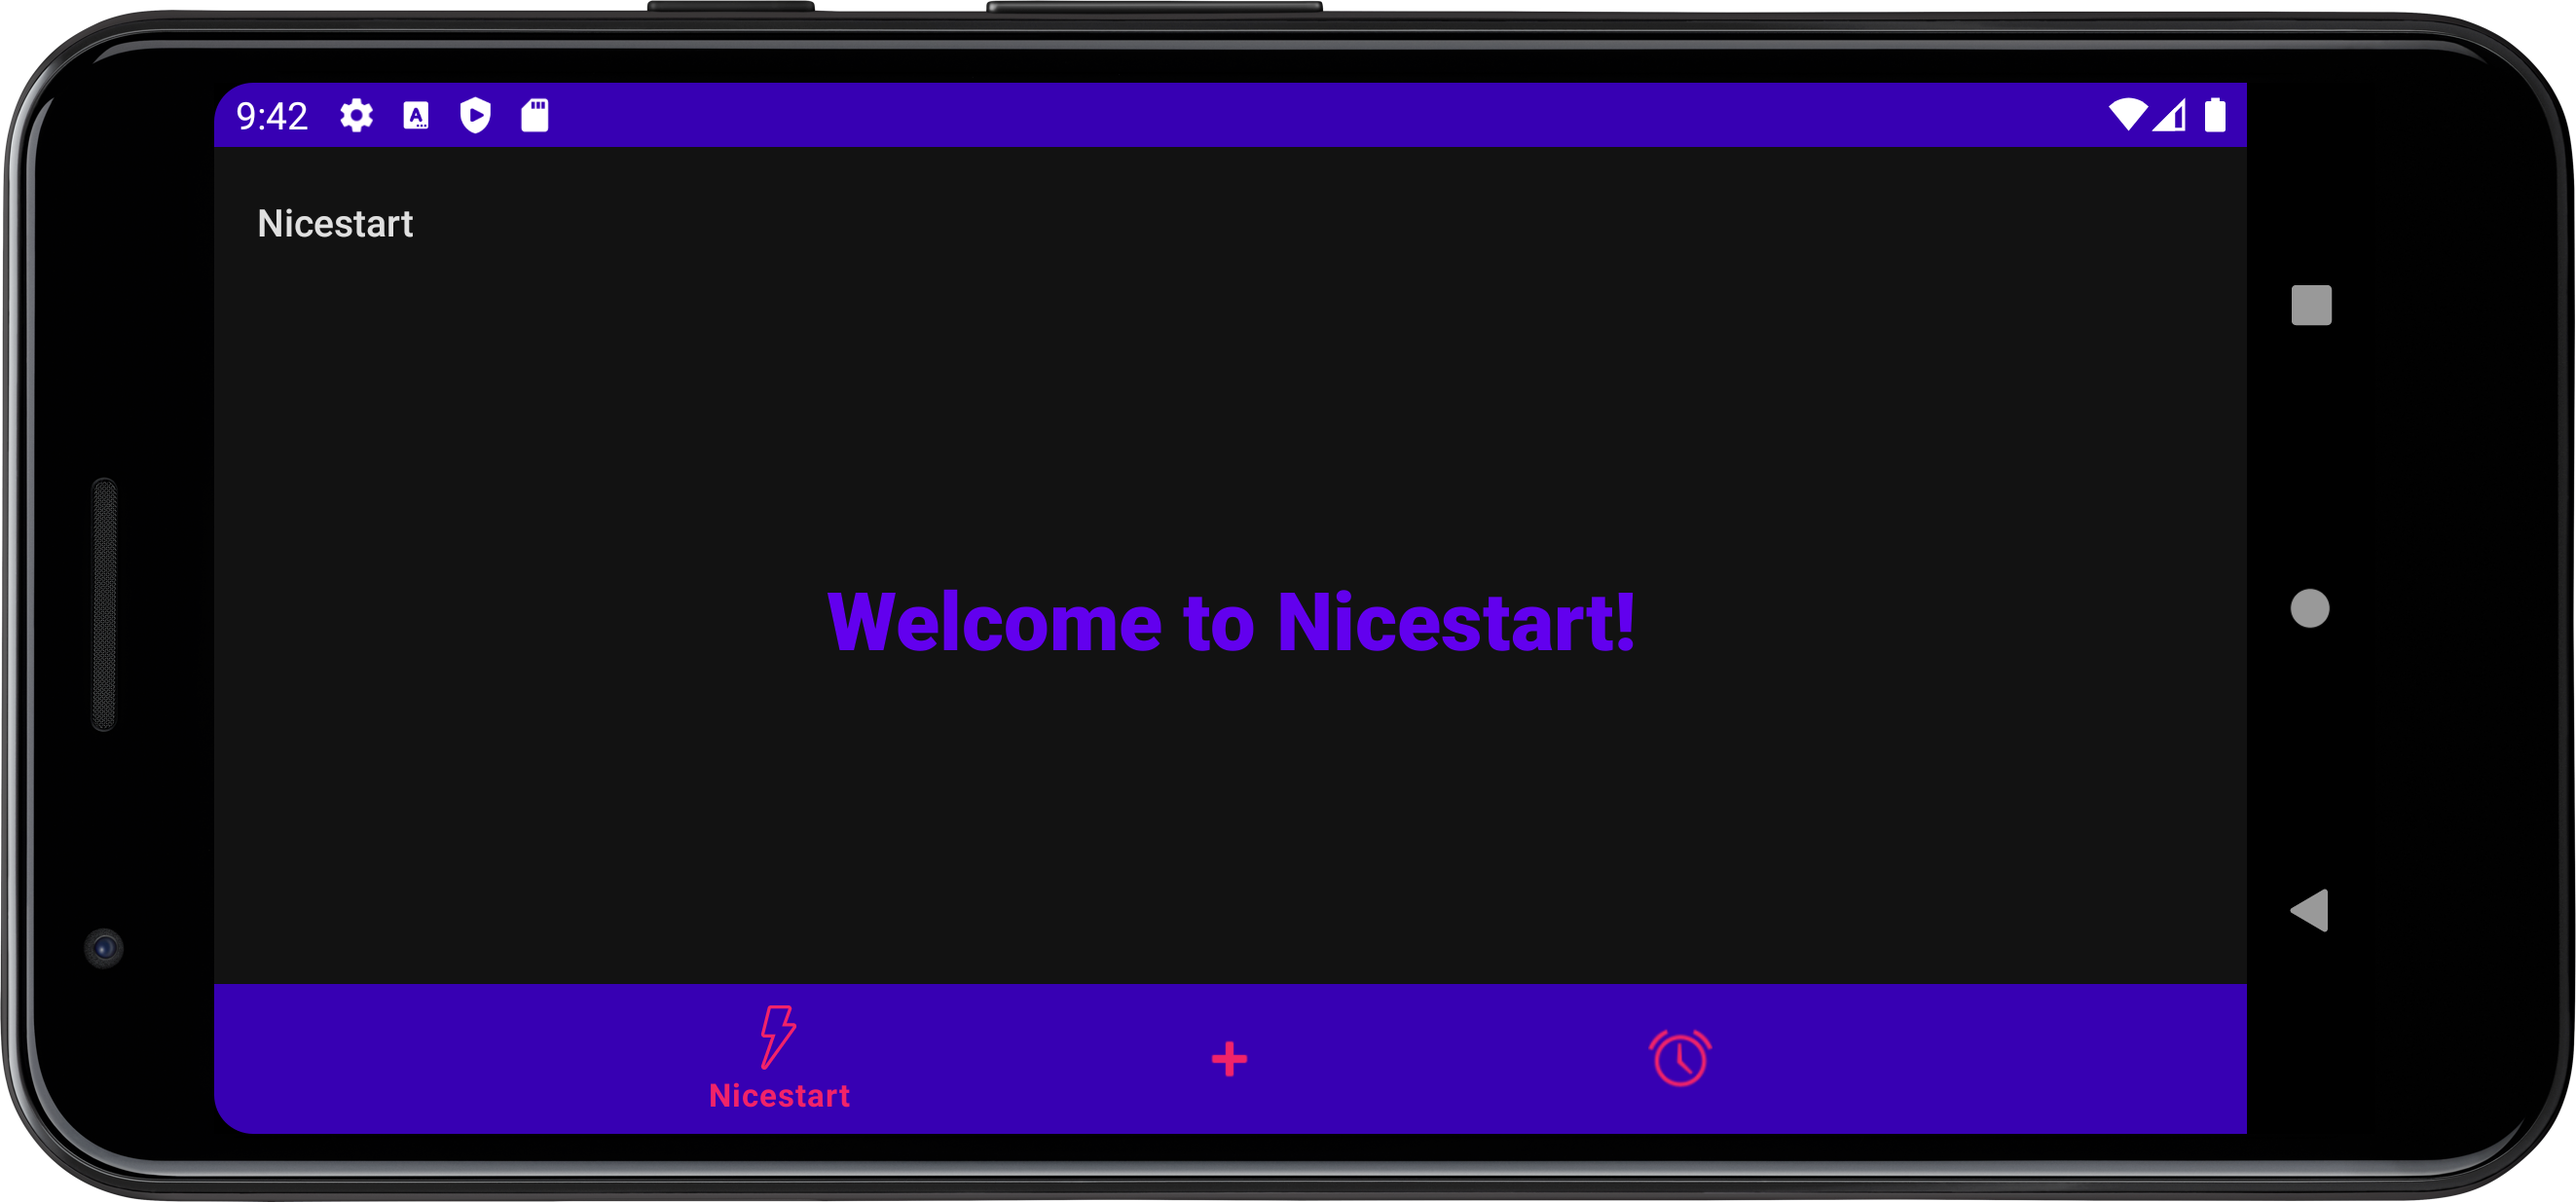
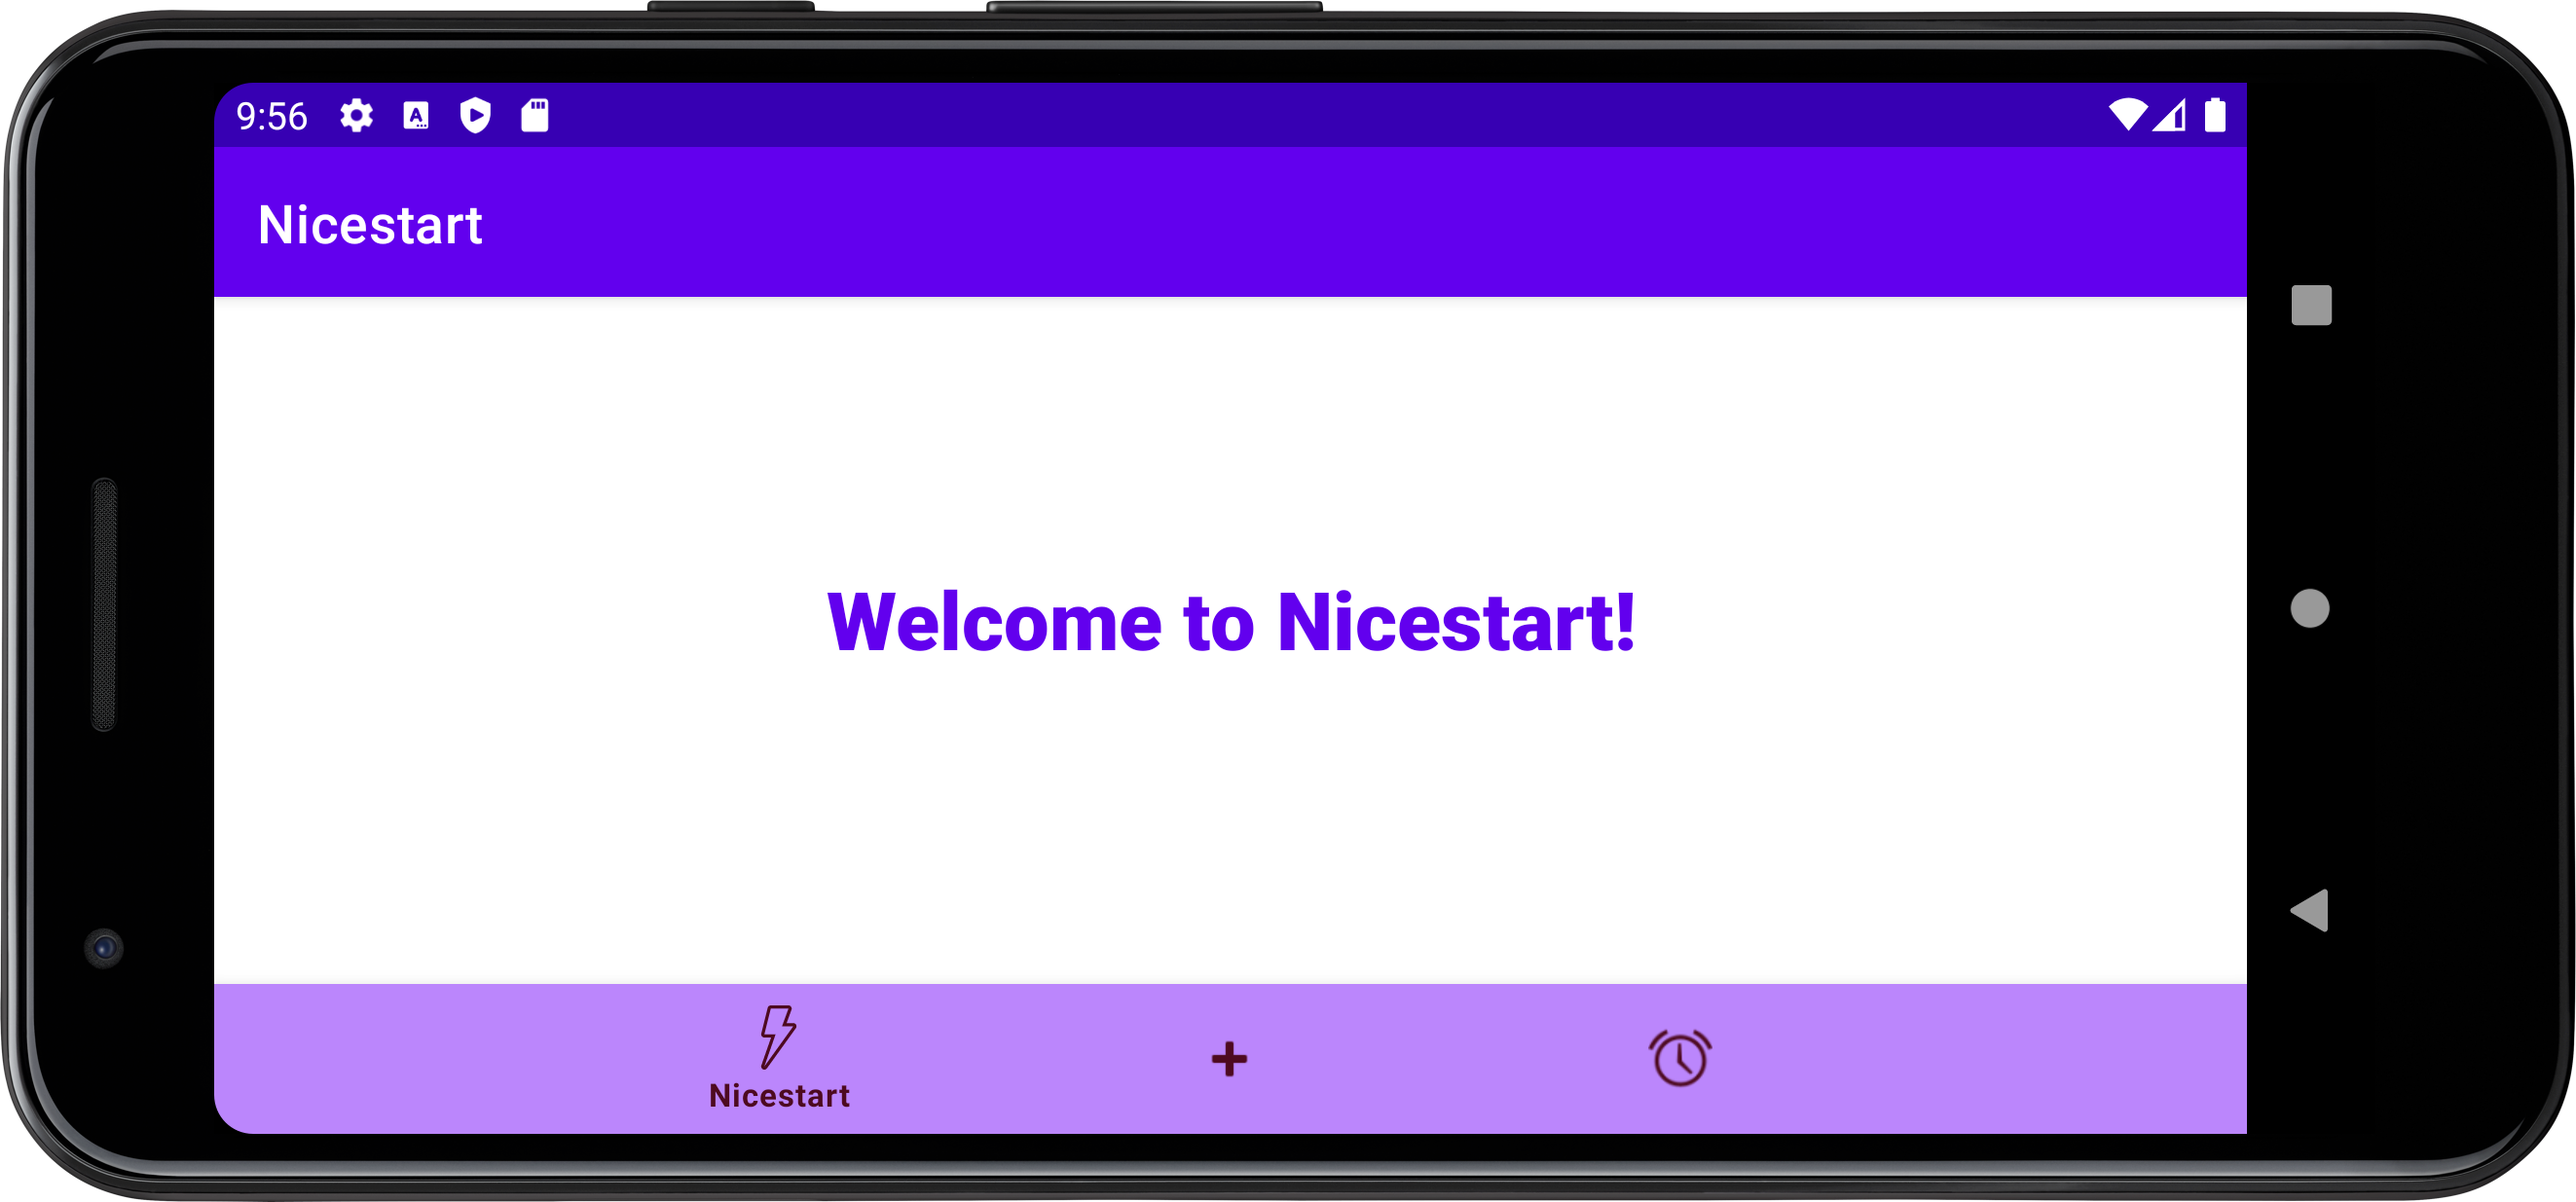
Added new screenshots and screen recordings Updated README.md

diff --git a/README.md b/README.md
@@ -8,8 +8,9 @@ cool new stuff about
 and
 [Android development](https://en.wikipedia.org/wiki/Android_software_development#:~:text=Android%20software%20development%20is%20the,other%20languages%20is%20also%20possible.).
 
-There are more screenshots and screen recordings in the
-[img folder](./img).
+**There are more screenshots and screen recordings of the functions and
+views of the application, that can be found at the
+[img folder](./img)!**
 
 ##
 ### Features list
@@ -75,11 +76,19 @@ There is also a view of this activity on landscape mode!
 This is the principal activity of this app, which is currently being
 worked on to improve it as much as posible.
 
-![Main activity - Portrait](./img/Screenshot_main_1.png)
+This activity has a [navigation bar](#navigation-bar) to navigate
+between 3 different sections. It also has a specific [theme](#themes---dark-and-light-modes) for
+dark mode that changes the colors of it´s palette.
+
+![Main activity - Portrait - Ligth](./img/Screenshot_main_1.png)
+
+![Main activity - Portrait - Night](./img/Screenshot_main_2.png)
 
 There is also a view of this activity on landscape mode!
 
-![Main activity - Landscape](./img/Screenshot_main_land_1.png)
+![Main activity - Landscape - Light](./img/Screenshot_main_land_1.png)
+
+![Main activity - Landscape - Night](./img/Screenshot_main_land_2.png)
 
 ## Themes - Action bars
 
@@ -125,4 +134,85 @@ file:
 
 ```xml
 <activity android:name=".Example" android:theme="@style/Theme.Nicestart.DarkActionBar"/>
+```
+
+## Themes - Dark and Light modes
+
+I edited the themes xml file, for light and for dark modes, to change
+the colors of the palette when the device is on dark mode:
+
+```xml
+<!-- Primary brand color for light mode. -->
+<style>
+    <item name="colorPrimary">@color/purple_200</item>
+    <item name="colorPrimaryVariant">@color/purple_500</item>
+    <item name="colorOnPrimary">@color/white</item>
+</style>
+```
+```xml
+<!-- Primary brand color for dark mode. -->
+<style>
+    <item name="colorPrimary">@color/fucsia_200</item>
+    <item name="colorPrimaryVariant">@color/fucsia_700</item>
+    <item name="colorOnPrimary">@color/black</item>
+</style>
+```
+
+## Navigation bar
+
+I watched a video on how to do a navigation bar with different styles,
+so this is the style of the one I´ve made, using the colors of the
+palette of this app:
+
+```xml
+<?xml version="1.0" encoding="utf-8"?>
+<RelativeLayout xmlns:android="http://schemas.android.com/apk/res/android"
+    xmlns:app="http://schemas.android.com/apk/res-auto"
+    xmlns:tools="http://schemas.android.com/tools"
+    android:layout_width="match_parent"
+    android:layout_height="match_parent"
+    tools:context=".MainActivity">
+
+    <FrameLayout
+        android:id="@+id/frame_container"
+        android:layout_width="match_parent"
+        android:layout_height="match_parent"
+        android:layout_alignParentTop="true"
+        app:layout_behavior="@string/appbar_scrolling_view_behavior"/>
+
+    <com.google.android.material.bottomnavigation.BottomNavigationView
+        android:id="@+id/bottom_navigation"
+        android:layout_width="match_parent"
+        android:layout_height="wrap_content"
+        android:layout_alignParentStart="true"
+        android:layout_alignParentEnd="true"
+        android:layout_alignParentBottom="true"
+        android:elevation="8dp"
+        app:layout_constraintBottom_toBottomOf="parent"
+        app:layout_constraintStart_toStartOf="parent"
+        app:layout_constraintEnd_toEndOf="parent"
+        app:menu="@menu/bottom_navigation"
+        app:labelVisibilityMode="selected"
+        style="@style/BottomNavigation"/>
+
+</RelativeLayout>
+```
+
+I defined the bottom navigation theme like this, in the themes xml file:
+
+```xml
+<!-- Navigation bar theme for light mode -->
+<style name="BottomNavigation">
+    <item name="android:background">@color/purple_200</item>
+    <item name="itemIconTint">@color/fucsia_700</item>
+    <item name="itemTextColor">@color/fucsia_700</item>
+</style>
+```
+```xml
+<!-- Navigation bar theme for night mode -->
+<style name="BottomNavigation">
+    <item name="android:background">@color/purple_700</item>
+    <item name="itemIconTint">@color/fucsia_200</item>
+    <item name="itemTextColor">@color/fucsia_200</item>
+</style>
 ```
